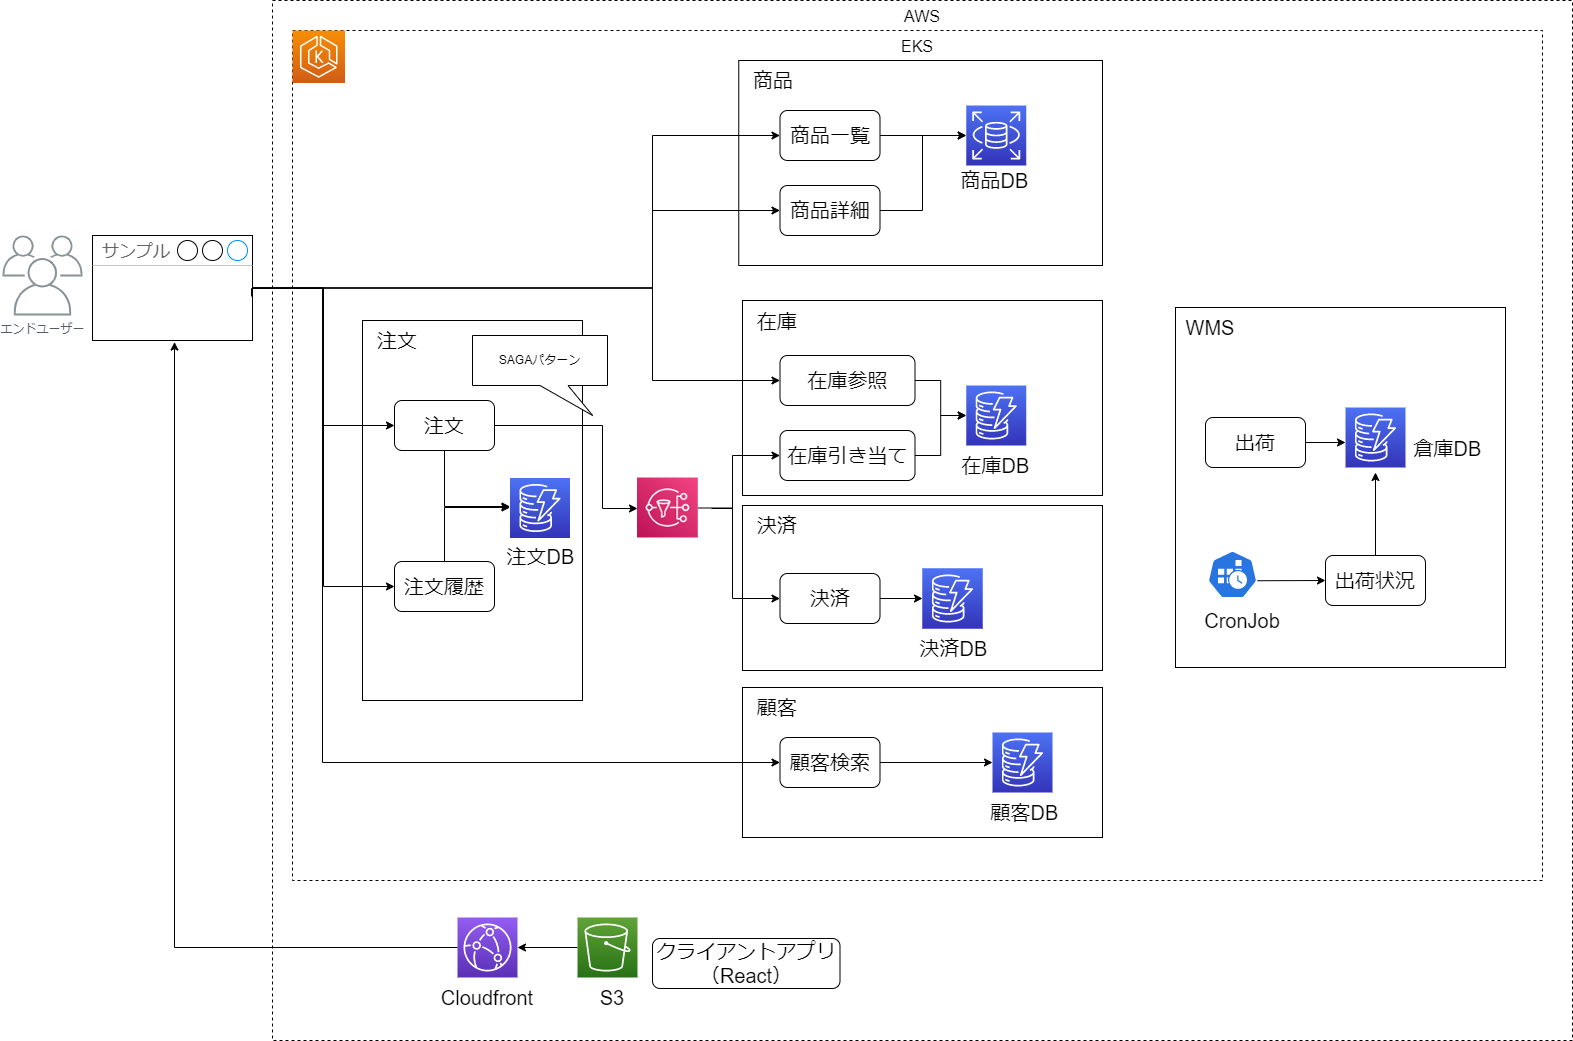
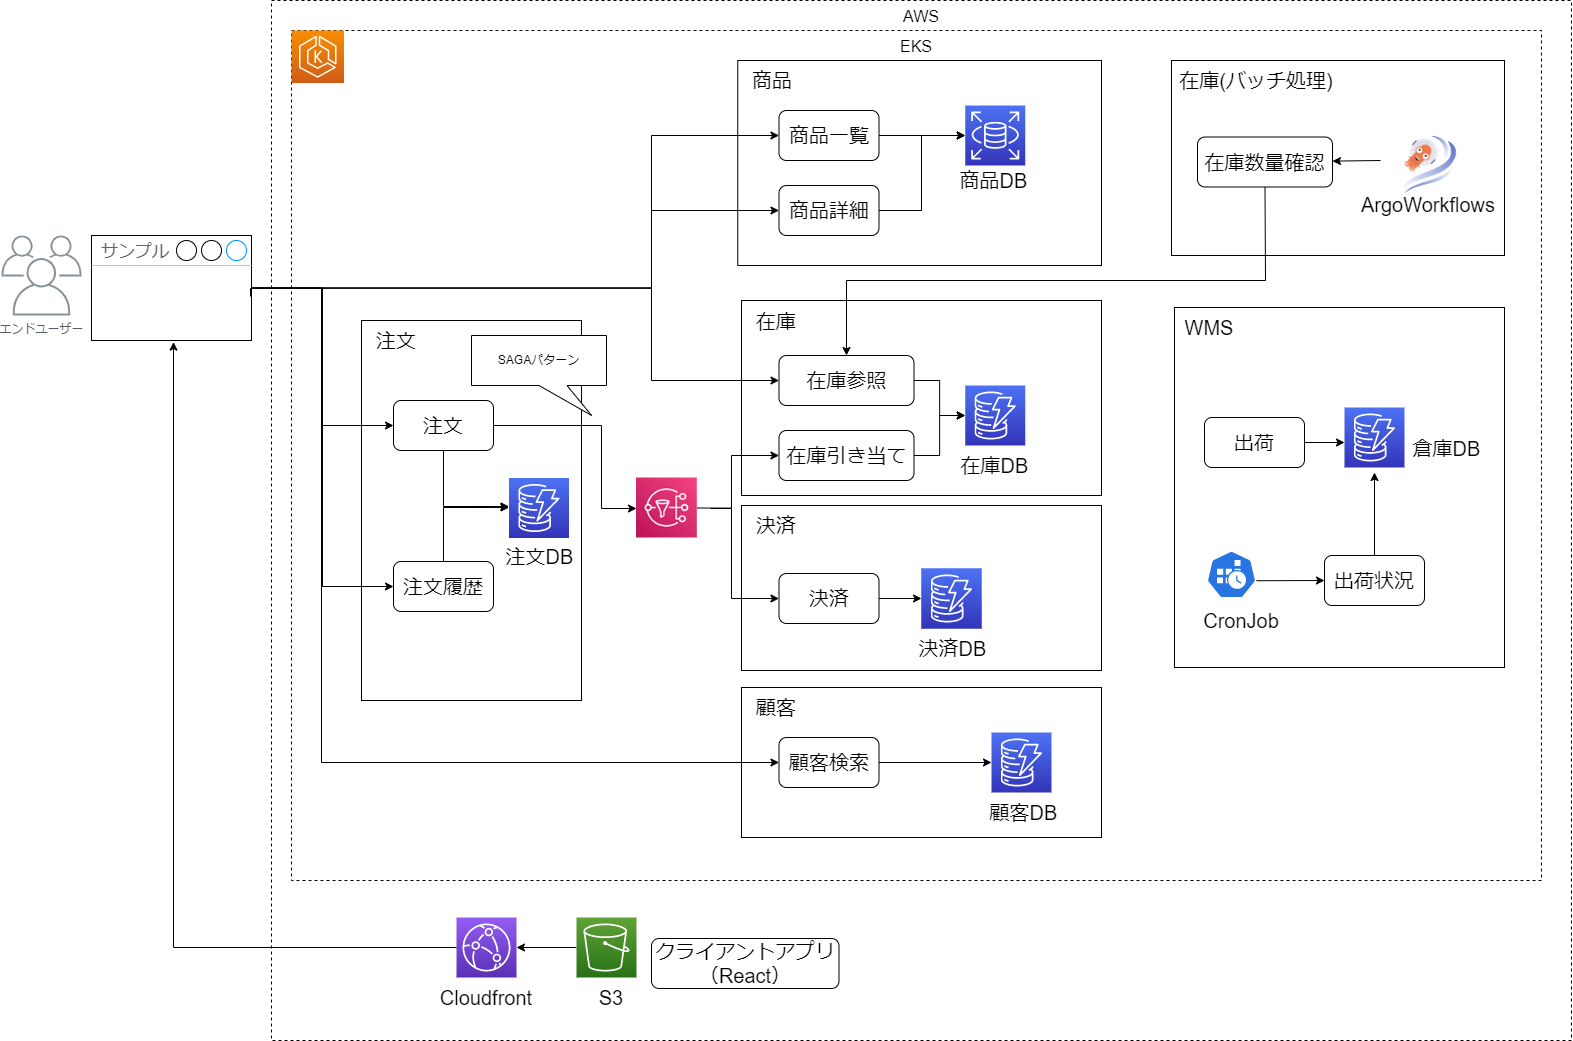
nautible/issues#117 - add doc for batchapp&argowf.

diff --git a/reference/argowf/README.md b/reference/argowf/README.md
@@ -1,0 +1,29 @@
+# Argo Workflows
+リファレンスアプリケーションで利用しているArgo Workflowsの機能や利用方法の注意点について記載します。
+
+## Argo Workflowsとは
+Argo WorkflowsはKubernetesで並列ジョブをオーケストレーションするためのコンテナネイティブのワークフローエンジンで、ワークフローの各ステップがコンテナであるワークフローを実現します。各種機能の詳細については[公式](https://argoproj.github.io/argo-workflows/)を参考にしてください。
+
+## 開発Tips
+
+### Argo Workflows＋Daprの注意点
+- Argo Workflowsで実行するアプリケーションにDaprを適用する場合にはいくつか注意すべき点がありますが、Argo Workflows＋Daprに対する記載はいずれの公式サイトにも記載は無く、非公式でも情報はほとんど無いため、本READMEにて記載します。
+
+#### ▽ Argo Workflowsで実行するアプリケーションへのDaprの適用
+- DaprサイドカーをPodにインジェクトさせるためには、当該ControllerのServiceAccountがDapr Injectorが管理するアカウントリストにリストアップされている必要があります。Kubernetes標準のController群のService Accountについてはデフォルトでリストアップされているため、特に意識することなくDaprサイドカーをPodにインジェクトさせることができます。一方、Argo WorkflowsではWorkflow Controllerがワークフロー定義に従って実行するアプリケーションのPod制御を行います。そのため、Kubernetes標準ではないArgo Workflows独自のControllerが制御するPodにDaprサイドカーをインジェクトさせるためには、Dapr Injectorが管理するアカウントリストにアカウント追加する必要があります。
+  - Dapr Injectorが管理するアカウントリストに追加するには、Daprの以下のHelmオプションパラメータを用います。
+    ```properties
+    dapr_sidecar_injector.allowedServiceAccounts=<Argo Workflows名前空間>:argo-workflows-workflow-controller
+    ```
+
+  - 詳細は、nautible-pluginにあるDaprの [appplication.yaml](https://github.com/nautible/nautible-plugin/blob/main/distributed-application/application.yaml) を参照してください。
+
+#### ▽ Daprサイドカーのシャットダウン
+- Daprのドキュメントに記載されている [Kubernetes標準のJobでDaprを実行する場合の留意点](https://docs.dapr.io/operations/hosting/kubernetes/kubernetes-job/) 同様、Argo Workflowsから実行するジョブについても同様の対処(shutdownエンドポイント呼出またはSDKでのshutdown)が必要です。
+  - リファレンスアプリケーションではSDKでのshutdown処理を行っています。
+    ```java
+    DaprClient daprClient = ...;
+    daprClient.shutdown().block();
+    daprClient.close();
+    ```
+  - 詳細は、nautible-app-ms-stock-batchにある [CmdStockQuantityCheckService](https://github.com/nautible/nautible-app-ms-stock-batch/blob/main/nautible-app-ms-stock-batch-core/src/main/java/jp/co/ogis_ri/nautible/app/stock/batch/inbound/cmd/CmdStockQuantityCheckService.java) を参照してください。

diff --git a/referenceapp-architecture/2_function/README.md b/referenceapp-architecture/2_function/README.md
@@ -33,6 +33,8 @@
     在庫引当予約の確定を行うAPI。SAGAオーケストレーションから実行されます。SAGA処理中に問題が発生しない場合に在庫引当予約を確定させます。
   - 在庫引当取り消し  
     在庫引当予約の取り消しを行うAPI。SAGAオーケストレーションから実行されます。SAGA処理中に問題が発生した場合に在庫引当予約を取り消します。
+  - 在庫数量確認
+    在庫数量の確認を行うAPI。Argo Workflowsから実行されます。在庫数を確認し、規定の在庫数量を下回っている場合に通知を行います。
 
 ## 決済サービス
 決済関連の機能を提供するサービスです。外部からのリクエストを受け付けるBFFサービスと決済種類毎(現金、クレジット支払い)のサービスがあります。

diff --git a/about/README.md b/about/README.md
@@ -24,6 +24,8 @@ nautibleの技術スタックを適用することで、以下のような開発
   | コンテナ化 | <ul><li>Docker</li></ul> |
   | CI/CD | <ul><li>ArgoCD</li><li>GitHub Actions</li></ul> |
   | オーケストレーション | <ul><li>Amazon EKS</li><li>Azure AKS</li></ul> |
+  | 分散アプリケーションランタイム | <ul><li>Dapr</li></ul> |
+  | コンテナワークフローエンジン | <ul><li>ArgoWorkflows</li></ul> |
   | 可観測性・分析 | <ul><li>prometheus</li><li>Grafana</li></ul> |
   | プロキシ・サービスメッシュ | <ul><li>Istio</li></ul> |
   | ネットワーク・セキュリティ | <ul><li>T.B.D</li></ul> |

diff --git a/reference/README.md b/reference/README.md
@@ -10,4 +10,7 @@
 ## [Dapr](./dapr/README.md "Dapr")
 
 ---
+## [Argo Workflows](./argowf/README.md "Argo Workflows")
+
+---
 ## [nautible-infra](https://github.com/nautible/nautible-infra/blob/main/README.md "nautible-infra")
